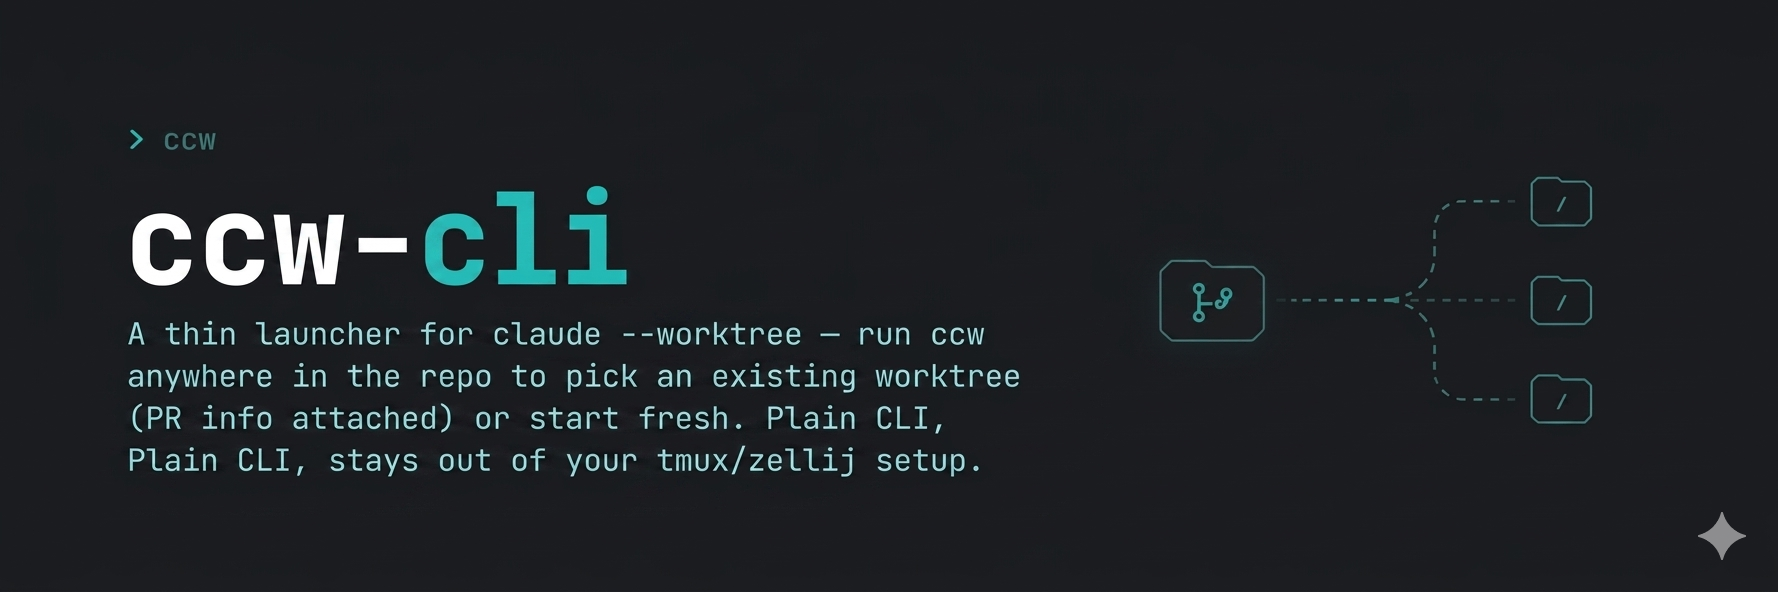
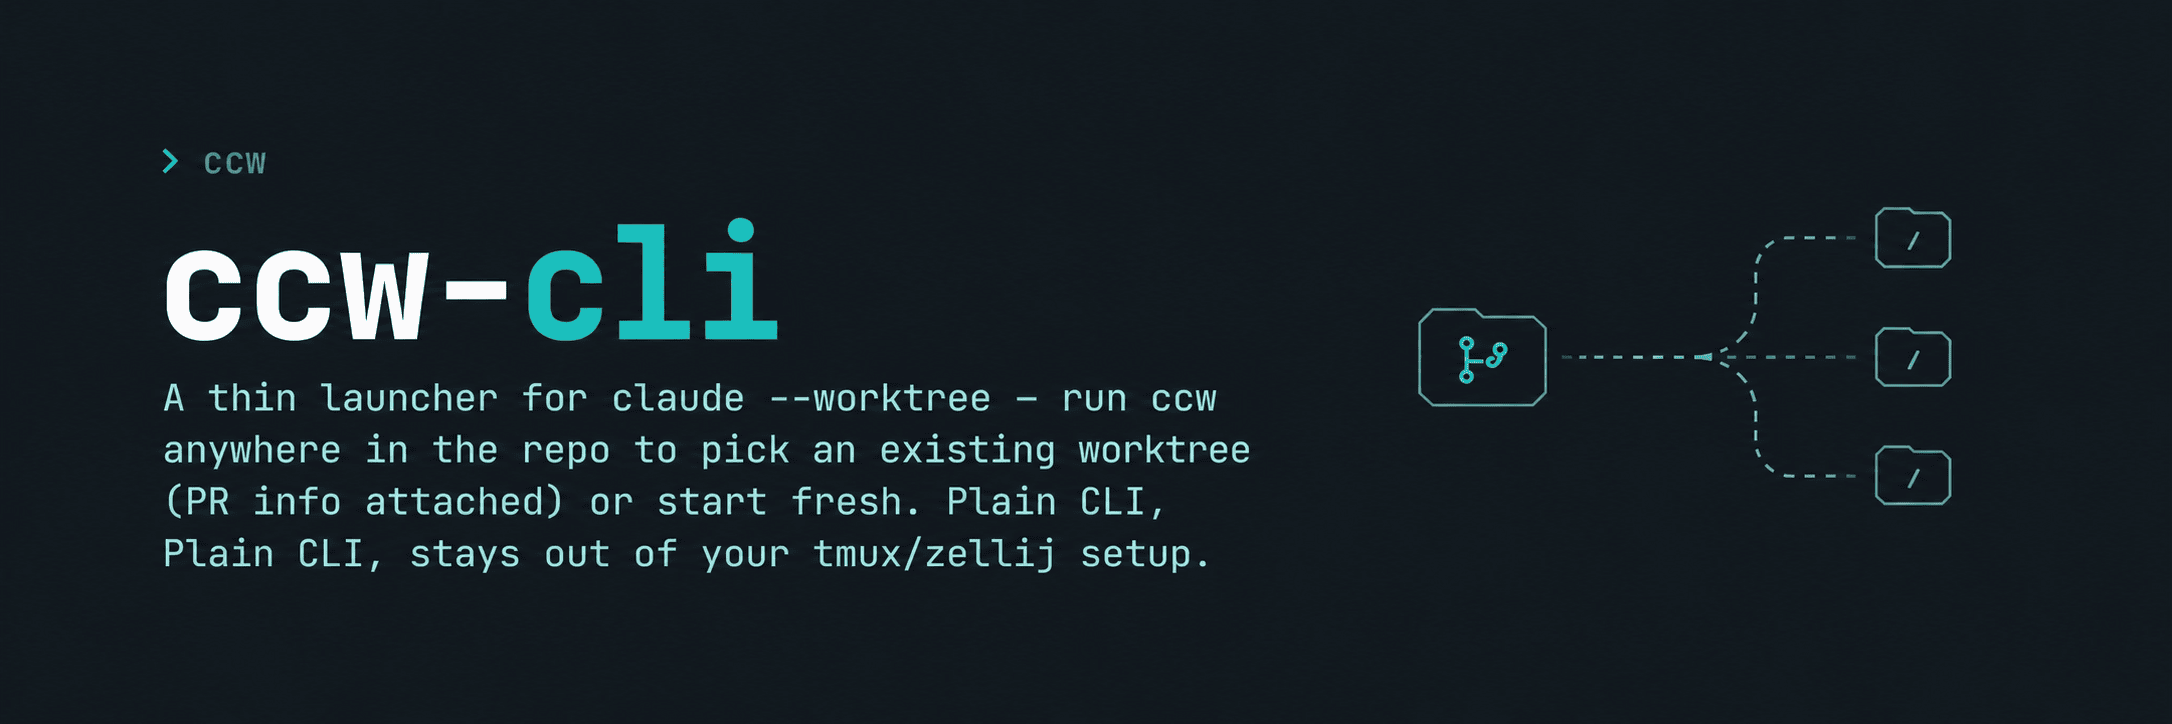
docs: ヘッダー画像差し替え + tape を RESUME/NEW 対応に更新 (#44)
* docs(spec): header 差し替えと tape の RESUME/NEW 反映の設計を追加

* docs(plan): header 差し替えと tape の RESUME/NEW 反映の実装計画を追加

* docs: update header.png to new design

* docs(demo): seed fake \$HOME with session logs for RESUME/NEW demo

* docs(demo): set HOME in tape so picker shows RESUME/NEW

* docs(demo): resolve worktree realpath when seeding RESUME logs

macOS の /tmp は /private/tmp の symlink。picker は worktree の resolved absolute path を ~/.claude/projects/ のキーに使うため、tr で encode する際は pwd -P で実体パスを取得する必要がある。修正前は session log が一切マッチせず、全 worktree が NEW で表示されていた。

* docs(demo): regenerate picker GIF with RESUME/NEW badges

* fix(picker): bubbletea/lipgloss v2 への test 追従 (#45)

- view_test.go: tea.View 構造体は Content フィールドで内容を取得する
- style_test.go: lipgloss v2 は ColorProfile の Get/Set を持たないため、
  PRBadge 系と同様に ANSI エスケープ含有のみで色付き出力を判定する

---------

diff --git a/internal/picker/style_test.go b/internal/picker/style_test.go
@@ -58,16 +58,20 @@ func TestResumeBadge_HasSession(t *testing.T) {
 
 func TestResumeBadge_Colored(t *testing.T) {
 	t.Setenv("NO_COLOR", "")
-	prev := lipgloss.ColorProfile()
-	lipgloss.SetColorProfile(termenv.ANSI256)
-	t.Cleanup(func() { lipgloss.SetColorProfile(prev) })
-
+	// lipgloss v2 の Style.Render は常に ANSI エスケープを返す
+	// （プロファイル側のフィルタは Writer 層）。PRBadge と同じ扱いにする。
 	got := ResumeBadge(true)
 	if !strings.Contains(got, "RESUME") {
 		t.Errorf("ResumeBadge(true) = %q, want substring RESUME", got)
 	}
+	if !strings.Contains(got, "\x1b[") {
+		t.Errorf("ResumeBadge(true) expected ANSI escape when NO_COLOR unset, got %q", got)
+	}
 	got = ResumeBadge(false)
 	if !strings.Contains(got, "NEW") {
 		t.Errorf("ResumeBadge(false) = %q, want substring NEW", got)
+	}
+	if !strings.Contains(got, "\x1b[") {
+		t.Errorf("ResumeBadge(false) expected ANSI escape when NO_COLOR unset, got %q", got)
 	}
 }

diff --git a/internal/picker/view_test.go b/internal/picker/view_test.go
@@ -12,7 +12,7 @@ func TestView_FooterShowsTips(t *testing.T) {
 	m.ghAvailable = true
 	m.tip = "test tip line"
 	m.state = stateList
-	out := m.View()
+	out := m.View().Content
 	if !strings.Contains(out, "💡 Tip: test tip line") {
 		t.Errorf("View footer missing tip:\n%s", out)
 	}
@@ -23,7 +23,7 @@ func TestView_FooterShowsGhHintWhenUnavailable(t *testing.T) {
 	m.ghAvailable = false
 	m.tip = "should-not-show"
 	m.state = stateList
-	out := m.View()
+	out := m.View().Content
 	if !strings.Contains(out, "Install gh") {
 		t.Errorf("View should show gh hint when gh unavailable:\n%s", out)
 	}

diff --git a/docs/superpowers/plans/2026-04-25-header-and-tape-refresh.md b/docs/superpowers/plans/2026-04-25-header-and-tape-refresh.md
@@ -1,0 +1,256 @@
+# Header 画像差し替え + tape の RESUME/NEW 反映 Implementation Plan
+
+> **For agentic workers:** REQUIRED SUB-SKILL: Use superpowers:subagent-driven-development (recommended) or superpowers:executing-plans to implement this plan task-by-task. Steps use checkbox (`- [ ]`) syntax for tracking.
+
+**Goal:** ヘッダー画像を新しいデザインに差し替え、demo tape / setup スクリプトを直近マージされた RESUME/NEW セッションバッジ機能に追従させる。
+
+**Architecture:** ドキュメント / アセットのみの変更。Go コードは触らない。setup script に fake HOME (`/tmp/ccw-demo-home`) と fake `~/.claude/projects/<encoded>/dummy.jsonl` を仕込み、tape の export 行に `HOME` を追加することで、picker の `HasSession` 判定（`internal/worktree/has_session.go`）が deterministic に RESUME / NEW を返すようにする。最後に `vhs` で GIF を再生成。
+
+**Tech Stack:** PNG (header asset), bash (setup script), [vhs](https://github.com/charmbracelet/vhs) tape 構文, GIF.
+
+**Files:**
+
+- Modify: `docs/assets/header.png` (binary 上書き)
+- Modify: `docs/assets/picker-demo-setup.sh`
+- Modify: `docs/assets/picker-demo.tape`
+- Modify: `docs/assets/picker-demo.gif` (再生成)
+
+参考:
+
+- spec: `docs/superpowers/specs/2026-04-25-header-and-tape-refresh-design.md`
+- session 判定ロジック: `internal/worktree/has_session.go:13-37`
+
+---
+
+## Task 1: ヘッダー画像差し替え
+
+**Files:**
+
+- Modify: `docs/assets/header.png`
+
+- [ ] **Step 1: 現在のヘッダーをバックアップ確認（git で復元可能なので削除コミット込みで進める）**
+
+Run: `file docs/assets/header.png ~/Downloads/header.png`
+Expected: 旧 1778×592、新 2172×724 と表示される。
+
+- [ ] **Step 2: 上書き**
+
+Run:
+
+```bash
+cp ~/Downloads/header.png docs/assets/header.png
+```
+
+- [ ] **Step 3: サイズ・寸法確認**
+
+Run: `file docs/assets/header.png && ls -lh docs/assets/header.png`
+Expected: `PNG image data, 2172 x 724, 8-bit/color RGB, non-interlaced`、サイズ 約 1.0 MB。
+
+- [ ] **Step 4: README プレビュー（任意・目視）**
+
+Run: `open README.md` か VS Code でプレビューしてヘッダーが新画像に置き換わっていることを確認。
+
+- [ ] **Step 5: コミット**
+
+```bash
+git add docs/assets/header.png
+git commit -m "docs: update header.png to new design"
+```
+
+---
+
+## Task 2: setup script に fake HOME / session log を追加
+
+**Files:**
+
+- Modify: `docs/assets/picker-demo-setup.sh`
+
+- [ ] **Step 1: ファイル末尾、`echo "ready..."` の直前に fake HOME ブロックを追加**
+
+`docs/assets/picker-demo-setup.sh` の最後の `echo "ready. now run: vhs docs/assets/picker-demo.tape"` の直前に以下を挿入:
+
+```bash
+# 5. fake HOME so the picker can detect RESUME / NEW deterministically.
+# Encoding mirrors internal/worktree/has_session.go:EncodeProjectPath
+# (replaces '/' and '.' with '-').
+rm -rf /tmp/ccw-demo-home
+PROJECTS=/tmp/ccw-demo-home/.claude/projects
+mkdir -p "$PROJECTS"
+for wt in feat-login feat-dashboard; do
+  enc=$(printf '%s' "/tmp/ccw-demo/.claude/worktrees/$wt" | tr '/.' '--')
+  mkdir -p "$PROJECTS/$enc"
+  printf '{}\n' >"$PROJECTS/$enc/dummy.jsonl"
+done
+
+```
+
+挿入後、`feat-login` と `feat-dashboard` の 2 worktree が RESUME、`feat-picker` と `chore-cleanup` の 2 worktree が NEW になる想定。
+
+- [ ] **Step 2: 構文チェック**
+
+Run: `bash -n docs/assets/picker-demo-setup.sh`
+Expected: 何も出力されず exit 0。
+
+- [ ] **Step 3: 一度通しで実行して fake HOME が想定どおりできているか確認**
+
+Run:
+
+```bash
+bash docs/assets/picker-demo-setup.sh
+ls /tmp/ccw-demo-home/.claude/projects/
+```
+
+Expected: 2 つのディレクトリ（feat-login / feat-dashboard をエンコードしたもの）が並び、それぞれに `dummy.jsonl` が存在。例:
+
+```text
+-tmp-ccw-demo--claude-worktrees-feat-login
+-tmp-ccw-demo--claude-worktrees-feat-dashboard
+```
+
+- [ ] **Step 4: 1 worktree だけ手動で `HasSession` 相当のチェックを行う**
+
+Run:
+
+```bash
+ls /tmp/ccw-demo-home/.claude/projects/-tmp-ccw-demo--claude-worktrees-feat-login/*.jsonl
+```
+
+Expected: `dummy.jsonl` が表示される。
+
+- [ ] **Step 5: コミット**
+
+```bash
+git add docs/assets/picker-demo-setup.sh
+git commit -m "docs(demo): seed fake \$HOME with session logs for RESUME/NEW demo"
+```
+
+---
+
+## Task 3: tape の export 行に HOME を追加
+
+**Files:**
+
+- Modify: `docs/assets/picker-demo.tape:13`
+
+- [ ] **Step 1: 13 行目を差し替える**
+
+旧:
+
+```text
+Type "cd /tmp/ccw-demo && export PATH=/tmp/ccw-demo-bin:/tmp/fake-gh:$PATH && clear"
+```
+
+新:
+
+```text
+Type "cd /tmp/ccw-demo && export HOME=/tmp/ccw-demo-home PATH=/tmp/ccw-demo-bin:/tmp/fake-gh:$PATH && clear"
+```
+
+- [ ] **Step 2: tape 構文サニティチェック**
+
+Run: `vhs validate docs/assets/picker-demo.tape`
+Expected: 何もエラーが出ない（`vhs validate` 非対応バージョンなら `vhs --help` で一旦確認後 skip）。
+
+> Note: vhs 0.11.0 に `validate` サブコマンドが無い場合、Step 2 は飛ばして Step 3 でまとめて確認する。
+
+- [ ] **Step 3: HOME export が tape 内に確実に入っているか grep で確認**
+
+Run: `grep "HOME=/tmp/ccw-demo-home" docs/assets/picker-demo.tape`
+Expected: 該当行が 1 件表示される。
+
+- [ ] **Step 4: コミット**
+
+```bash
+git add docs/assets/picker-demo.tape
+git commit -m "docs(demo): set HOME in tape so picker shows RESUME/NEW"
+```
+
+---
+
+## Task 4: GIF 再生成
+
+**Files:**
+
+- Modify: `docs/assets/picker-demo.gif`
+
+- [ ] **Step 1: setup を最新で流し直す（Task 2 で実行済みでも、tape 直前にもう一度走らせて状態を deterministic にする）**
+
+Run: `bash docs/assets/picker-demo-setup.sh`
+Expected: 末尾に `ready. now run: vhs docs/assets/picker-demo.tape`。
+
+- [ ] **Step 2: vhs で tape を実行**
+
+Run: `vhs docs/assets/picker-demo.tape`
+Expected: `Creating ...` のログを経て `/tmp/ccw-demo.gif` が生成される。エラーなく終了。
+
+- [ ] **Step 3: 生成された GIF をリポジトリに反映**
+
+Run: `cp /tmp/ccw-demo.gif docs/assets/picker-demo.gif`
+
+- [ ] **Step 4: 寸法 / サイズ確認**
+
+Run: `file docs/assets/picker-demo.gif && ls -lh docs/assets/picker-demo.gif`
+Expected: `GIF image data, version 89a, 1440 x 640`。サイズは ~500 KB 前後（既存と同程度）。
+
+- [ ] **Step 5: 目視確認（必須）**
+
+Run: `open docs/assets/picker-demo.gif`
+
+確認項目:
+
+- picker に 4 行表示され、`feat/login` と `feat/dashboard` の行に `💬 RESUME`、`feat/picker` と `chore/cleanup` の行に `⚡ NEW` が見える
+- worktree badge / PR badge カラムの整列が崩れていない
+- 既存と同じ 60 秒前後の長さで walkthrough → サブメニュー → bulk cancel → quit まで再生される
+
+問題があれば Task 2/3 に戻って修正。
+
+- [ ] **Step 6: コミット**
+
+```bash
+git add docs/assets/picker-demo.gif
+git commit -m "docs(demo): regenerate picker GIF with RESUME/NEW badges"
+```
+
+---
+
+## Task 5: 仕上げ確認
+
+- [ ] **Step 1: ワークツリーが clean か確認**
+
+Run: `git status`
+Expected: `nothing to commit, working tree clean`。
+
+- [ ] **Step 2: コミットログを確認**
+
+Run: `git log --oneline -6`
+Expected: spec コミット (419f9b6) の上に Task 1-4 の 4 コミットが順番に並ぶ。
+
+- [ ] **Step 3: 既存 Go テストが影響を受けていないか念のため確認**
+
+Run: `go test ./...`
+Expected: PASS（このプランは Go コードを触っていないので影響しないはず）。
+
+- [ ] **Step 4: 完了**
+
+このタスクで実装は完了。次は user に PR 化するか、ブランチをそのまま統合するかを確認する（superpowers:finishing-a-development-branch を必要に応じて）。
+
+---
+
+## Self-Review
+
+**Spec 網羅:**
+
+- Section 1（ヘッダー差し替え） → Task 1
+- Section 2（setup script） → Task 2
+- Section 3（tape） → Task 3
+- Section 4（検証） → Task 4 Step 5 + Task 5 Step 3
+- Section 5（非スコープ） → 守れている（Go 変更なし、README 文言変更なし、ja README 変更なし、GIF 分割なし）
+- Section 6（リスク） → setup / tape ともに `/tmp/ccw-demo-home` のみ操作、実 HOME 非汚染
+
+**Placeholder:** なし。各 step に具体コマンドあり。
+
+**Type / 名称整合:**
+
+- `feat-login` / `feat-dashboard` / `feat-picker` / `chore-cleanup` の表記は spec と plan で一致
+- `tr '/.' '--'` で `EncodeProjectPath` を再現する説明 spec と plan で一致
+- HOME path `/tmp/ccw-demo-home` 全タスクで一致

diff --git a/docs/superpowers/specs/2026-04-25-header-and-tape-refresh-design.md b/docs/superpowers/specs/2026-04-25-header-and-tape-refresh-design.md
@@ -1,0 +1,94 @@
+# Header 画像差し替え + tape の RESUME/NEW 反映
+
+- 日付: 2026-04-25
+- スコープ: ドキュメント / デモアセットのみ。Go コードや CLI 仕様の変更なし。
+
+## 背景
+
+直近の機能追加（PR #43: worktree-resume integration）で、picker に **RESUME / NEW** セッションバッジが追加された。判定は `~/.claude/projects/<encoded-abs-path>/*.jsonl` の有無に依存する（`internal/worktree/has_session.go`）。
+
+現状の `docs/assets/picker-demo.tape` / `picker-demo-setup.sh` は session log を作らないため、すべて NEW で表示される（= 新機能が GIF で見えない）。同時にユーザーから新しいヘッダー画像が提供された（`~/Downloads/header.png`）。
+
+このスペックは以下 2 点をまとめて扱う:
+
+1. `docs/assets/header.png` を新規ファイルで上書き
+2. demo tape を最小変更で RESUME / NEW 混在を演出する
+
+GIF を分割する案（picker / cleanup を別 tape に）も検討したが、**現状路線（tape 1 本）** で進めることに決定（README の構成を変えずに済むのと、tape 尺は据え置きで足りるため）。
+
+## 1. ヘッダー画像差し替え
+
+| 項目 | 旧 | 新 |
+|---|---|---|
+| パス | `docs/assets/header.png` | 同上（上書き） |
+| 寸法 | 1778×592 | 2172×724 |
+| アスペクト比 | ≈ 3.0:1 | ≈ 3.0:1 |
+| サイズ | 430 KB | 約 1023 KB |
+
+- 単純な `cp ~/Downloads/header.png docs/assets/header.png`。
+- README の `![ccw-cli — Claude Code x worktree](docs/assets/header.png)` は width 指定なしのため変更不要。
+- `docs/README.ja.md` も同じ相対パスを参照しているため、自動で新画像を拾う。
+
+## 2. demo setup script の更新 (`picker-demo-setup.sh`)
+
+最後に「fake HOME と fake `~/.claude/projects/` を作る」ステップ（5）を追加する。
+
+```bash
+# 5. fake HOME so the picker can detect RESUME / NEW deterministically
+rm -rf /tmp/ccw-demo-home
+PROJECTS=/tmp/ccw-demo-home/.claude/projects
+mkdir -p "$PROJECTS"
+for wt in feat-login feat-dashboard; do
+  enc=$(printf '%s' "/tmp/ccw-demo/.claude/worktrees/$wt" | tr '/.' '--')
+  mkdir -p "$PROJECTS/$enc"
+  printf '{}\n' >"$PROJECTS/$enc/dummy.jsonl"
+done
+```
+
+エンコード規則は `internal/worktree/has_session.go` の `EncodeProjectPath`（`/` と `.` を `-` に置換）を `tr` 一発で再現する。
+
+### worktree とバッジの対応
+
+| worktree | worktree badge | PR badge | session badge |
+|---|---|---|---|
+| `feat/login` | 🟢 PUSHED | 🟩 OPEN | 💬 RESUME |
+| `feat/dashboard` | 🟢 PUSHED | 🟪 MERGED | 💬 RESUME |
+| `feat/picker` | 🟡 LOCAL | ⬛ DRAFT | ⚡ NEW |
+| `chore/cleanup` | 🔴 DIRTY | 🟥 CLOSED | ⚡ NEW |
+
+→ picker に RESUME × 2 / NEW × 2 が並ぶ。`Enter` でサブメニューを開く対象は既存の PUSHED+MERGED 行（feat/dashboard = RESUME）なので、「RESUME → `[r] run` で `claude --continue` 復帰」のストーリーが既存 tape のまま成立する。
+
+スクリプト末尾の `echo "ready..."` 行はそのまま。
+
+## 3. tape の更新 (`picker-demo.tape`)
+
+Hide ブロック内の export を 1 行差し替えるのみ:
+
+```text
+Type "cd /tmp/ccw-demo && export HOME=/tmp/ccw-demo-home PATH=/tmp/ccw-demo-bin:/tmp/fake-gh:$PATH && clear"
+```
+
+- walkthrough（Down × 3 / Up × 2 / Enter / `b` / Down × 4 / Enter / `N` / `q`）は変更しない。
+- 尺・寸法（1440×640、~60s）据え置き。
+- font / theme / typing speed 据え置き。
+
+## 4. 検証
+
+- `bash docs/assets/picker-demo-setup.sh` 完走（既存 4 worktree + fake HOME）
+- `vhs docs/assets/picker-demo.tape` を実行 → `/tmp/ccw-demo.gif` 生成 → `docs/assets/picker-demo.gif` に上書き（既存ワークフロー通り）
+- 目視確認:
+  - picker 4 行のうち 2 行に `💬 RESUME`、残り 2 行に `⚡ NEW` が見える
+  - badge カラム整列が崩れていない
+- README ローカルプレビューでヘッダー画像が新しいものに差し替わっている
+
+## 5. 非スコープ
+
+- `internal/picker/*` のコード変更
+- README 文言変更（既に RESUME/NEW について記載済み）
+- ja README の文言変更
+- 別 GIF への分割
+
+## 6. リスク
+
+- HOME 切り替えがユーザーの実 `~/.claude/` を汚さないか: tape は `Hide` 内で export するのみで `vhs` のサブシェルに閉じる。setup script も `/tmp/ccw-demo-home` のみ操作。実 HOME 配下は触らない。
+- `EncodeProjectPath` 仕様変更時に setup の `tr '/.' '--'` がずれる: コメントで関連付けを記す。
